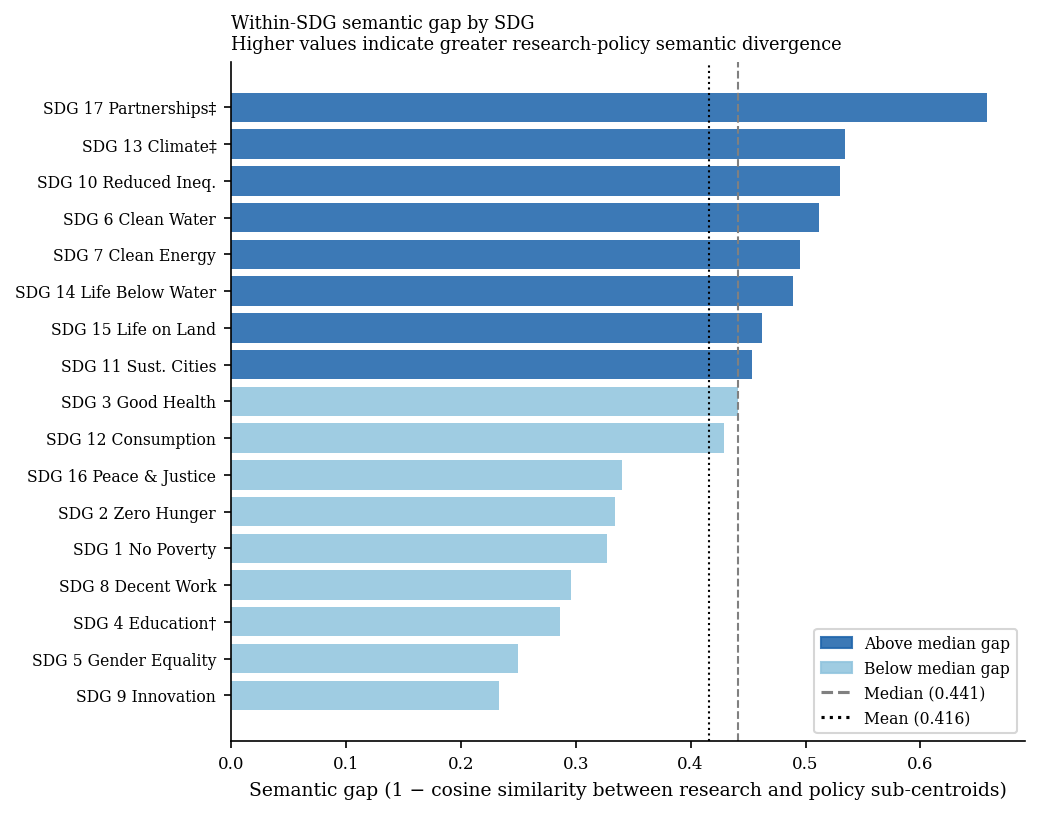
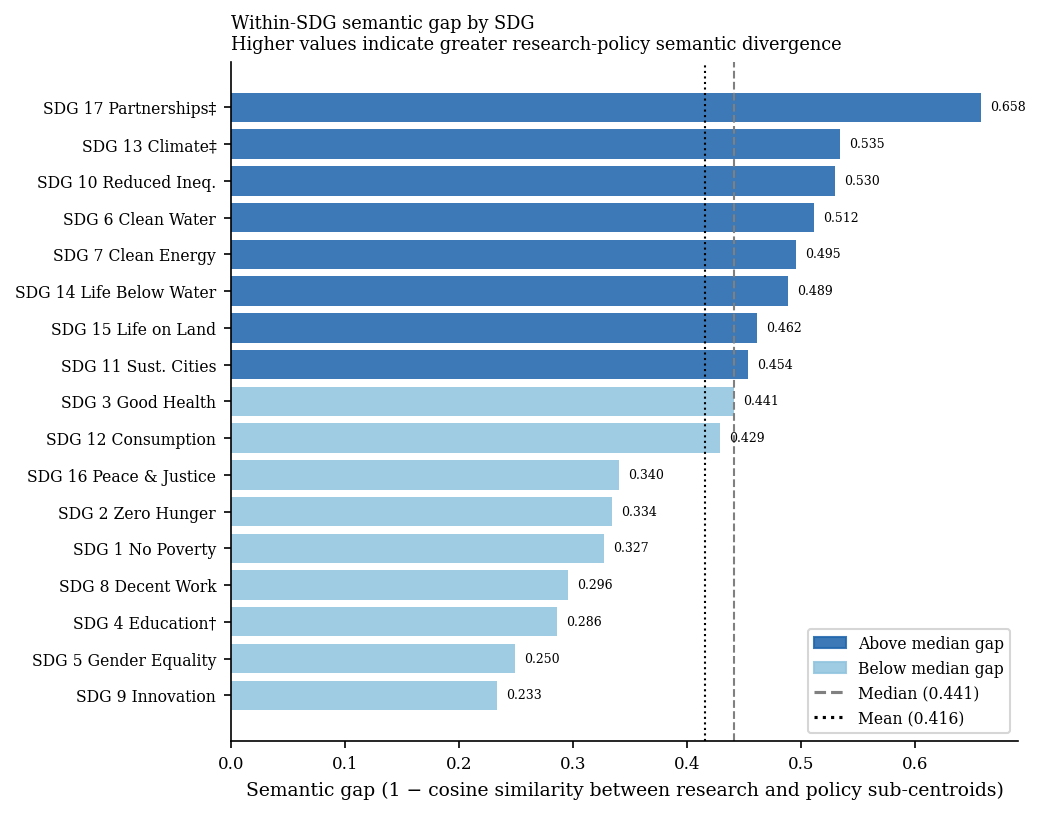
fig2: add gap value annotations at bar ends

diff --git a/1_code/4_visualization/plot_figures.py b/1_code/4_visualization/plot_figures.py
@@ -195,6 +195,8 @@ def main() -> None:
     colors = [RESEARCH_COLOR if v > median_semantic_gap else "#92C5DE" for v in df_sem["semantic_gap"]]
 
     ax2.barh(y, df_sem["semantic_gap"], color=colors, alpha=0.88)
+    for i, val in enumerate(df_sem["semantic_gap"]):
+        ax2.text(val + 0.008, i, f"{val:.3f}", va="center", ha="left", fontsize=6)
     ax2.axvline(median_semantic_gap, color="grey", linestyle="--", linewidth=1,
                 label=f"Median ({median_semantic_gap:.3f})")
     ax2.axvline(mean_semantic_gap, color="black", linestyle=":", linewidth=1,
